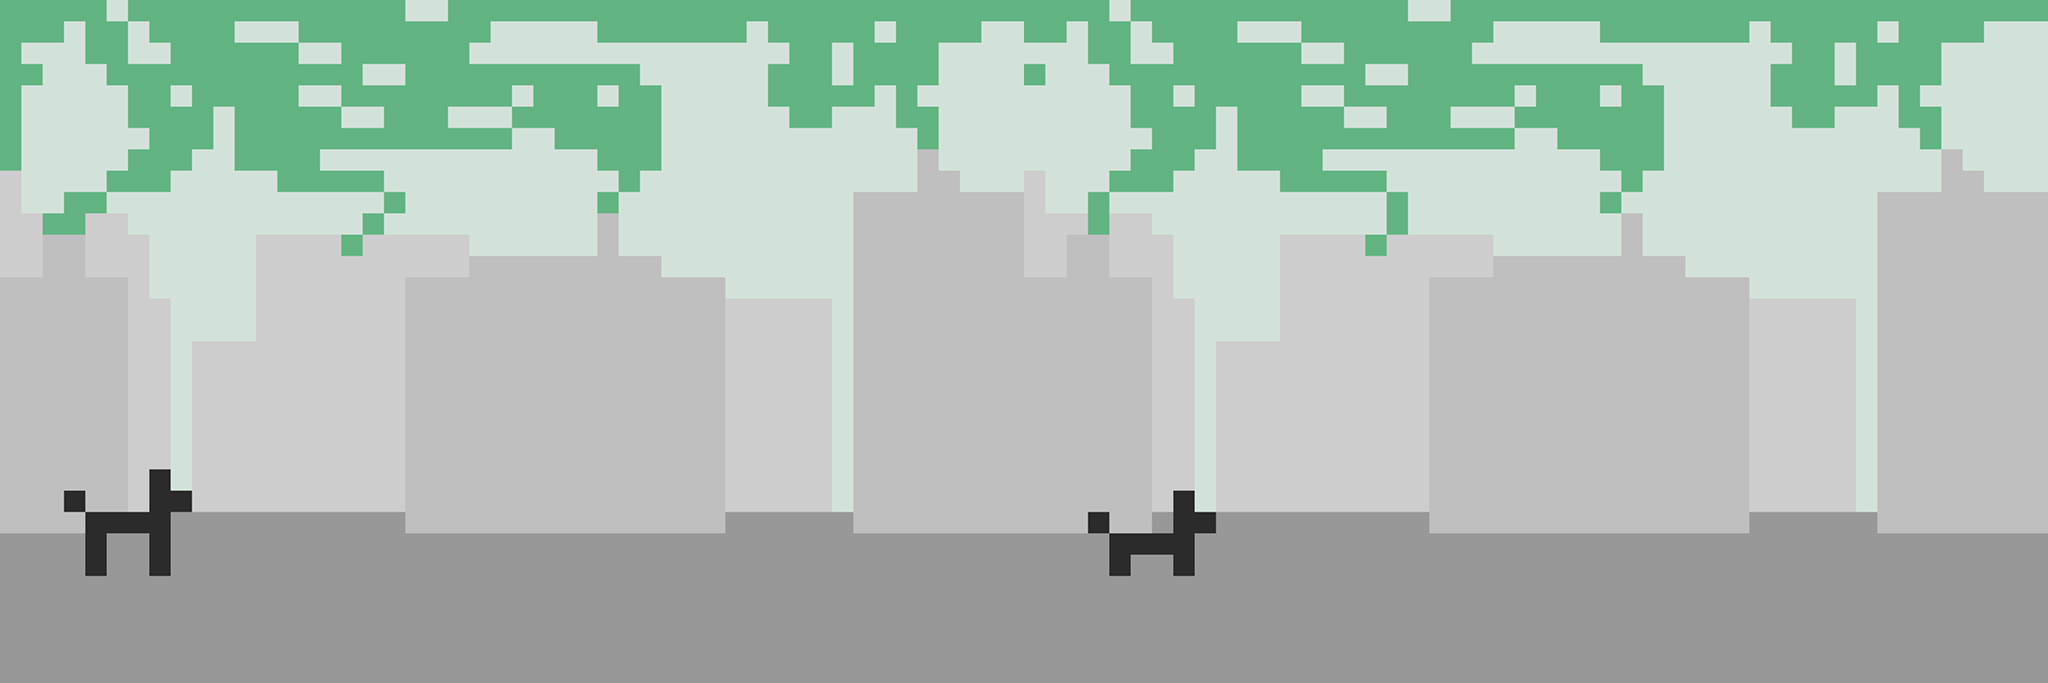
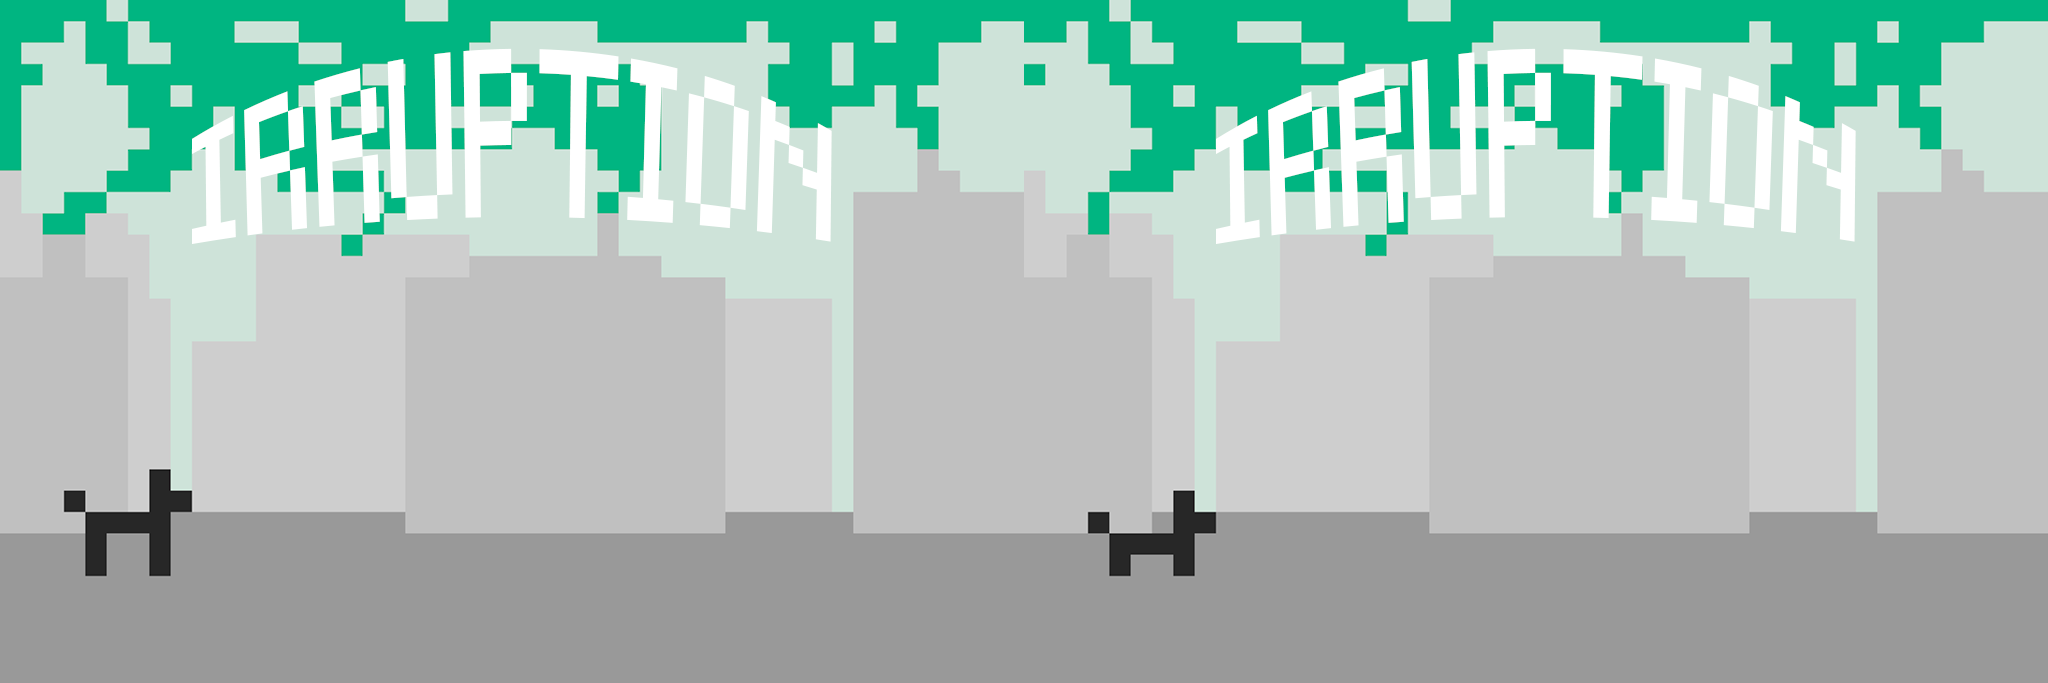
Final buttons and text

Changed region(s): [[0.0, 0.0, 1.0, 0.369]]

diff --git a/script/game_functions.py b/script/game_functions.py
@@ -47,30 +47,57 @@ def calculate_frame(current_frame, frames):
     return current_frame
 
 
-# Затухание экрана
-def fading(delay):
-    for opacity in range(255, 0, -15):
-        print(opacity)
-        working_surface = pygame.Surface((1024, 768), pygame.SRCALPHA, 32)
-        working_surface.fill((0, 0, 0, opacity))
-        screen.blit(working_surface, (0, 0))
-        pygame.display.flip()
-        pygame.time.delay(delay)
+# Затухание экрана (Передаётся задержка и тип перехода)
+# def transition(delay, trans_type):
+#     # types = {0: "introduction", 1: "fading"}
+#     # saved_screen = screen
+#     # if trans_type == 0:
+#     #     for size in range(50, 0, -1):
+#     #         black_rect = pygame.Surface((1024, 683))  # переход снизу - вверх
+#     #         black_rect.fill(BLACK)
+#     #         screen.blit(black_rect, (0, size * 30))
+#     #         pygame.display.flip()
+#     #         pygame.time.delay(delay)
+#     else:
+#         for size in range(40):
+#             black_rect = pygame.Surface((1024, 20 * size))  # - переход сверху - вниз
+#             black_rect.fill(BLACK)
+#             screen.blit(black_rect, (screen.get_rect(center=screen.get_rect().center)))
+#             pygame.display.flip()
+#             pygame.time.delay(delay)
 
 
 # Функция запуска начального экрана
 def start_screen():
     current_frame = 0
+    i_s = cut_sheet(load_image("icons.png"), 4, 2, 74, 71)  # icon_sheet
+    # (i_s - сокращено для удобной записи в словаре)
+    icons = {"settings": i_s[0], "pause": i_s[1], "reset": i_s[2], "star": i_s[3],
+             "hp": i_s[4], "cup": i_s[5], "volume_down": i_s[6], "volume up": i_s[7]}
     bg_frames = cut_sheet(load_image("start_screen.png"), 2, 1, 1024, 683)
-    button_frames = cut_sheet(load_image("buttons.png"), 1, 7, 256, 64)
-    start_btn = Button(button_frames, 381, 320, "Играть")
+    long_button_frames = cut_sheet(load_image("buttons.png"), 1, 7, 256, 64)
+    short_button_frames = cut_sheet(load_image("short_btn.png"), 3, 1, 96, 78)
+    start_btn = Button(long_button_frames, 384, 310, "Играть")
+    info_btn = Button(long_button_frames, 384, 406, "Об авторах")
+    exit_btn = Button(long_button_frames, 384, 502, "Выход")
+    settings_btn = Button(short_button_frames, 910, 584, "", icons["settings"])
     while True:
         for event in pygame.event.get():
             if event.type == pygame.QUIT:
                 terminate()
             if event.type == pygame.MOUSEBUTTONUP:
                 if start_btn.on_hovered(event.pos):
-                    return
+                    # transition(10, 1)
+                    return 0
+                if info_btn.on_hovered(event.pos):
+                    # transition(10, 1)
+                    return 1
+                if exit_btn.on_hovered(event.pos):
+                    # transition(10, 1)
+                    terminate()
+                if settings_btn.on_hovered(event.pos):
+                    # transition(10, 0)
+                    pass
         mouse_pos = pygame.mouse.get_pos()
         for btn in buttons:
             if btn.on_hovered(mouse_pos):
@@ -107,4 +134,3 @@ def choose_hero():
         all_sprites.draw(screen)
         pygame.display.flip()
         clock.tick(FPS)
-

diff --git a/script/button.py b/script/button.py
@@ -4,12 +4,14 @@ from constants import *
 
 # Класс, описывающий кнопку
 class Button(pygame.sprite.Sprite):
-    def __init__(self, frames, x, y, text=""):
+    def __init__(self, frames, x, y, text="", icon=pygame.Surface((0, 0))):
         super(Button, self).__init__(buttons)
         self.frames = frames
+        self.icon = icon
         self.image = frames[0]
         self.standard_btn = frames[0]
         self.current_frame = 0
+        self.animation_fps = int(ANIMATION_FPS * 1.5)
         self.width, self.height = self.image.get_width(), self.image.get_height()
         self.rect = self.image.get_rect()
         self.rect.x = x
@@ -25,11 +27,16 @@ class Button(pygame.sprite.Sprite):
         text = font.render(self.text, True, WHITE)
         screen.blit(text, text.get_rect(center=self.rect.center))
 
+    # Функция, устанавливающая иконку
+    def set_icon(self):
+        screen.blit(self.icon, self.icon.get_rect(center=self.rect.center))
+
     # Функция увеличивает кнопку (выделяет/подсвечивает)
     def highlight(self):
-        self.image = pygame.transform.scale(self.frames[self.current_frame // ANIMATION_FPS],
+        self.image = pygame.transform.scale(self.frames[self.current_frame // self.animation_fps],
                                             (int(self.width * SCALE_COEFF),
                                              int(self.height * SCALE_COEFF)))
+        self.rect = self.image.get_rect()
         difference_width = (self.width - int(self.width * SCALE_COEFF)) // 2
         difference_height = (self.height - int(self.height * SCALE_COEFF)) // 2
         self.rect.x = self.x + difference_width
@@ -37,27 +44,34 @@ class Button(pygame.sprite.Sprite):
 
     # Функция возвращает картинку кнопки в изначальную (после наведения)
     def set_default_image(self):
+        self.rect = self.frames[self.current_frame // self.animation_fps].get_rect()
         self.rect.x, self.rect.y = self.pos
         self.hovered = False
-        self.image = self.frames[self.current_frame // ANIMATION_FPS]
+        self.image = self.frames[self.current_frame // self.animation_fps]
 
+    # Высчитывает текущий кадр
     def calculate_frame(self):
         self.current_frame += 1
-        if self.current_frame < len(self.frames) * ANIMATION_FPS:
+        if self.current_frame < len(self.frames) * self.animation_fps:
             pass
         else:
             self.current_frame = 0
 
+    # Проверяет наведён ли курсор на кнопку
     def on_hovered(self, pos):
         if self.rect.collidepoint(*pos):
             self.hovered = True
             return True
         return False
 
+    # Функция, выполняющаяся каждый цикл (высчитывает текущий кадр, накладывает текст)
     def update(self):
-        self.set_text()
+        if self.text:
+            self.set_text()
+        if self.icon:
+            self.set_icon()
         self.calculate_frame()
         if self.hovered:
             pass
         else:
-            self.image = self.frames[self.current_frame // ANIMATION_FPS]
+            self.image = self.frames[self.current_frame // self.animation_fps]

diff --git a/script/constants.py b/script/constants.py
@@ -13,7 +13,7 @@ WHITE = pygame.Color("white")
 BLACK = pygame.Color("black")
 GRAVITY = 1
 SCALE_COEFF = 1.2
-FONT_SIZE = 80
+FONT_SIZE = 72
 all_sprites = pygame.sprite.Group()
 buttons = pygame.sprite.Group()
 screen = pygame.display.set_mode(SIZE)
